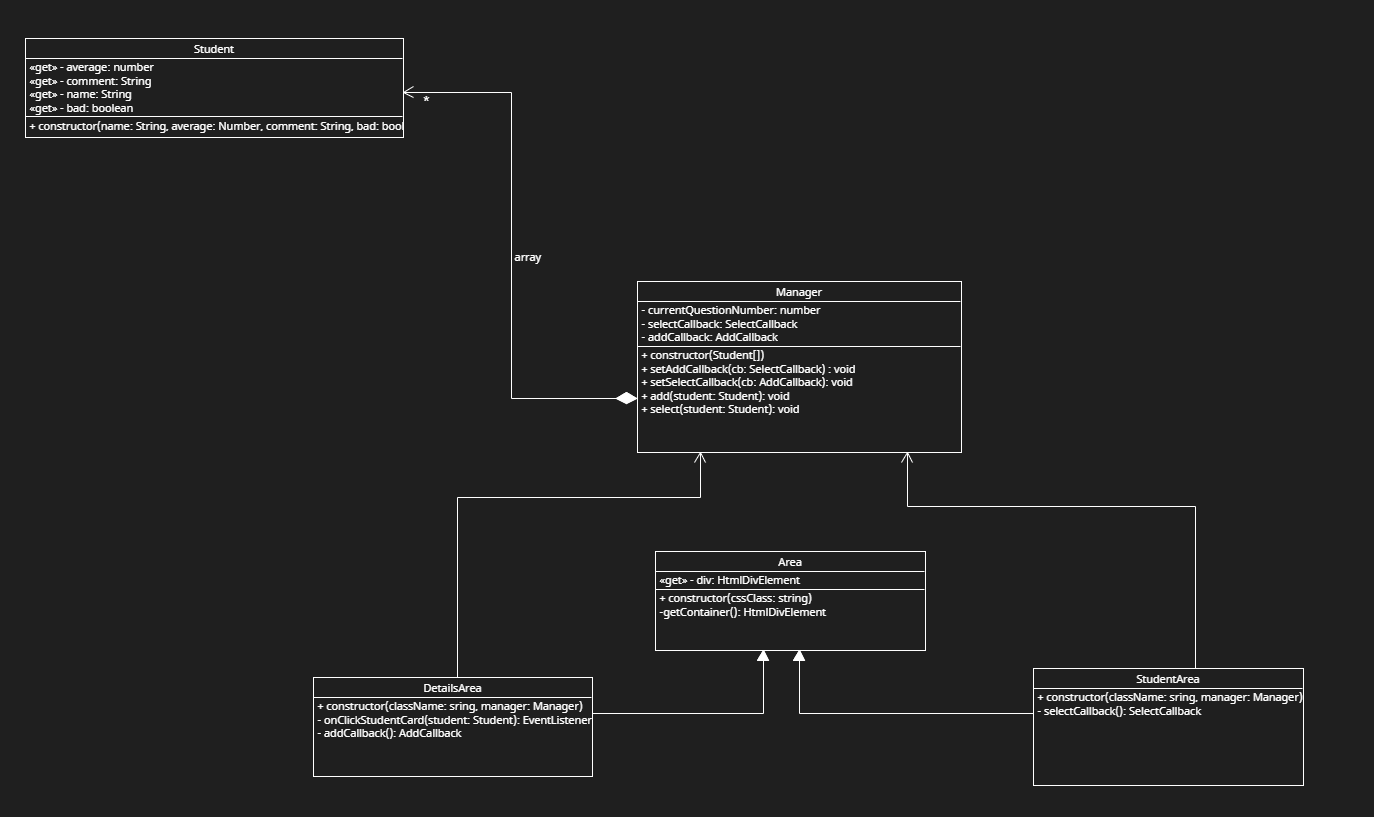
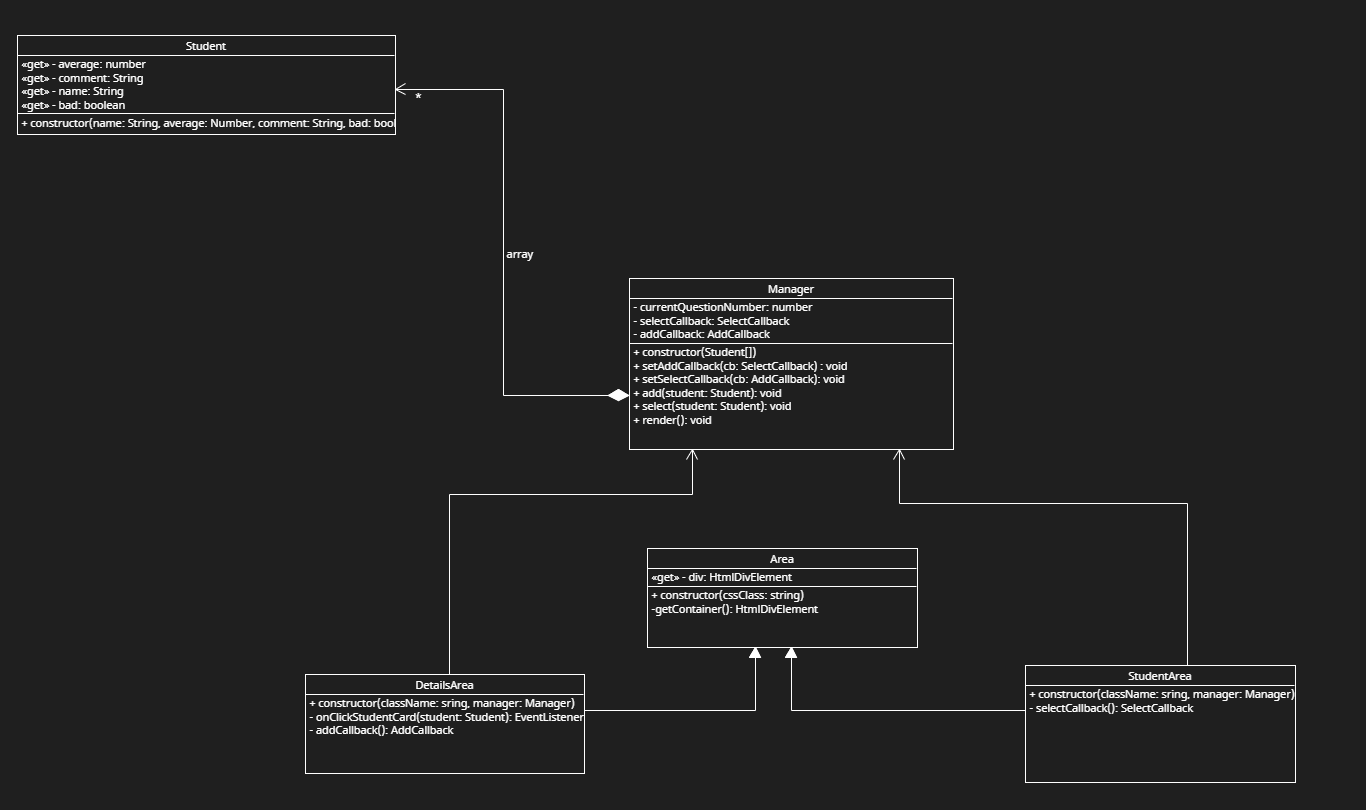
update manager

diff --git a/app/shared/manager.js b/app/shared/manager.js
@@ -16,11 +16,16 @@ class Manager{
     }
 
     add(student){
-        this.#array.push(student);
-        this.#addCallback(student);
+        this.#array.push(student);   
     }
 
     select(student){
         this.#selectCallback(student);
+    }
+
+    render(){
+        for(const student of this.#array){
+            this.#addCallback(student);
+        }
     }
 }
